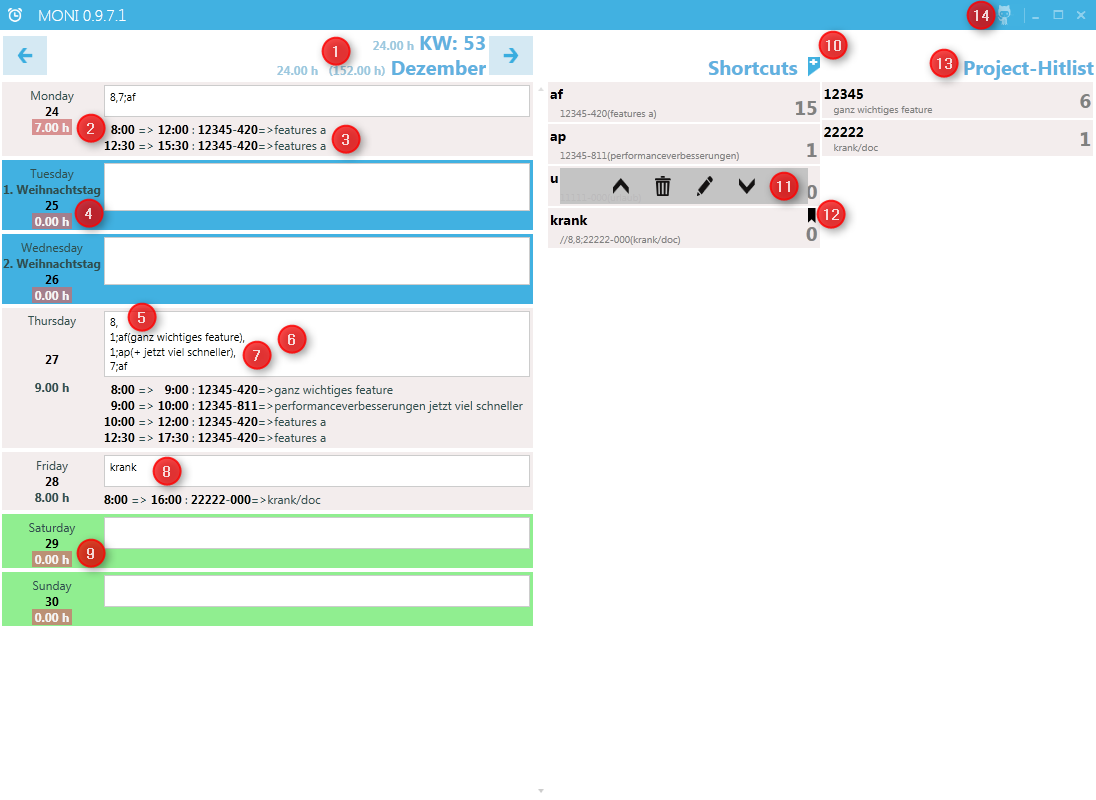
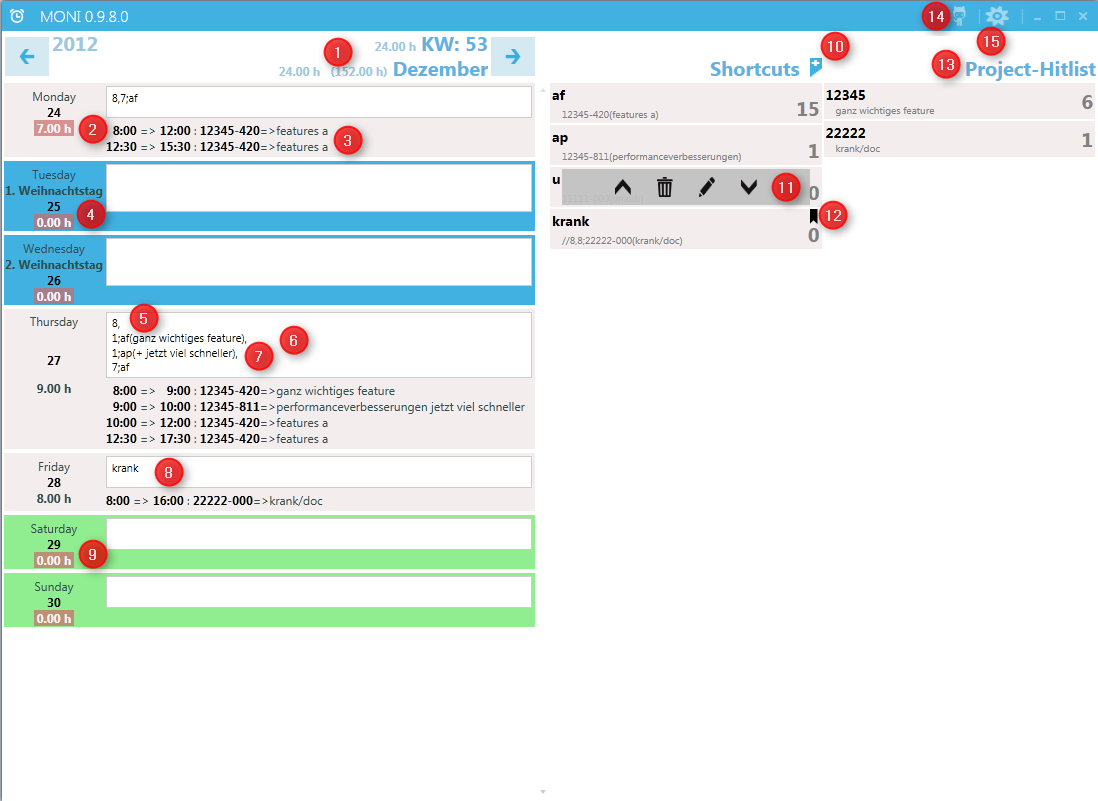
add settings to doc

diff --git a/MONI/Properties/AssemblyInfo.cs b/MONI/Properties/AssemblyInfo.cs
@@ -51,5 +51,5 @@ using System.Windows;
 // You can specify all the values or you can default the Build and Revision Numbers 
 // by using the '*' as shown below:
 // [assembly: AssemblyVersion("1.0.*")]
-[assembly: AssemblyVersion("0.9.7.1")]
-[assembly: AssemblyFileVersion("0.9.7.1")]
+[assembly: AssemblyVersion("0.9.8.0")]
+[assembly: AssemblyFileVersion("0.9.8.0")]

diff --git a/README.md b/README.md
@@ -17,7 +17,7 @@ außerdem bietet moni weitere features, die die eingabe vereinfachen:
 
 ## das interface ##
 
-![das eine fenster](https://github.com/dotob/moni/raw/master/doc/moni_mainwindow.png)
+![hauptansicht](https://github.com/dotob/moni/raw/master/doc/moni_mainwindow.png)
 
 1. prognose arbeitstunden
 2. warnung wenn nicht 8h pro tag verbraucht
@@ -33,6 +33,10 @@ außerdem bietet moni weitere features, die die eingabe vereinfachen:
 12. hervorhebung von abkürzungen für ganze tage
 13. hitliste der abkürzuungen
 14. link zu github
+15. einstellungen editieren
+
+![shortcut editieren](https://github.com/dotob/moni/raw/master/doc/moni_shortcut.png)
+![einstellungen editieren](https://github.com/dotob/moni/raw/master/doc/moni_settings.png)
 
 ## installation ##
 
@@ -40,8 +44,8 @@ außerdem bietet moni weitere features, die die eingabe vereinfachen:
 2. zip entpacken
 3. moni.exe starten
 4. es wird beim start ein **data** verzeichnis angelegt. der ort dieses verzeichnis kann geändert werden:
-5. in der datei settings.json sind die einstellungen zu monlist gespeichert. hier kann der wert von **DataDirectory** geändert werden (absolute und relative pfade sind erlaubt).
-6. shortcuts können seit version 0.9.7.0 direkt im interface geändert werden. andere einstellungen wie automatische pausen-konfiguration und feiertage können nur in der settings.json datei per hand geändert werden.
+5. ab version 0.9.8.0 können die einstellungen zum teil direkt im hauptfenster geändert werden
+6. shortcuts können seit version 0.9.7.0 direkt im interface geändert werden
 
 ## keyboad shortcuts ##
 
